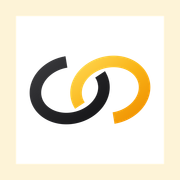
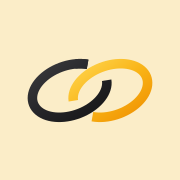
Rebuild the web brand assets from the shared mark
The favicon, the touch icons and the header logo were each cut separately
and had drifted from the mark. All of them are now rasterised from the one
generator in the API repo's brand folder, so the shape is the same
everywhere it appears.

The header image goes from 34 to 38 wide: the regenerated mark is slightly
broader at the same height, and the old width was squeezing it.

diff --git a/src/app/app.html b/src/app/app.html
@@ -1,7 +1,7 @@
 <header class="site-header">
   <div class="container header-inner">
     <a class="brand" routerLink="/offers" aria-label="OffersOffer home">
-      <img class="brand-mark" src="logo.svg" alt="" aria-hidden="true" width="34" height="22" />
+      <img class="brand-mark" src="logo.svg" alt="" aria-hidden="true" width="38" height="22" />
       <span class="brand-name">Offers<span class="brand-name-accent">Offer</span></span>
     </a>
 
